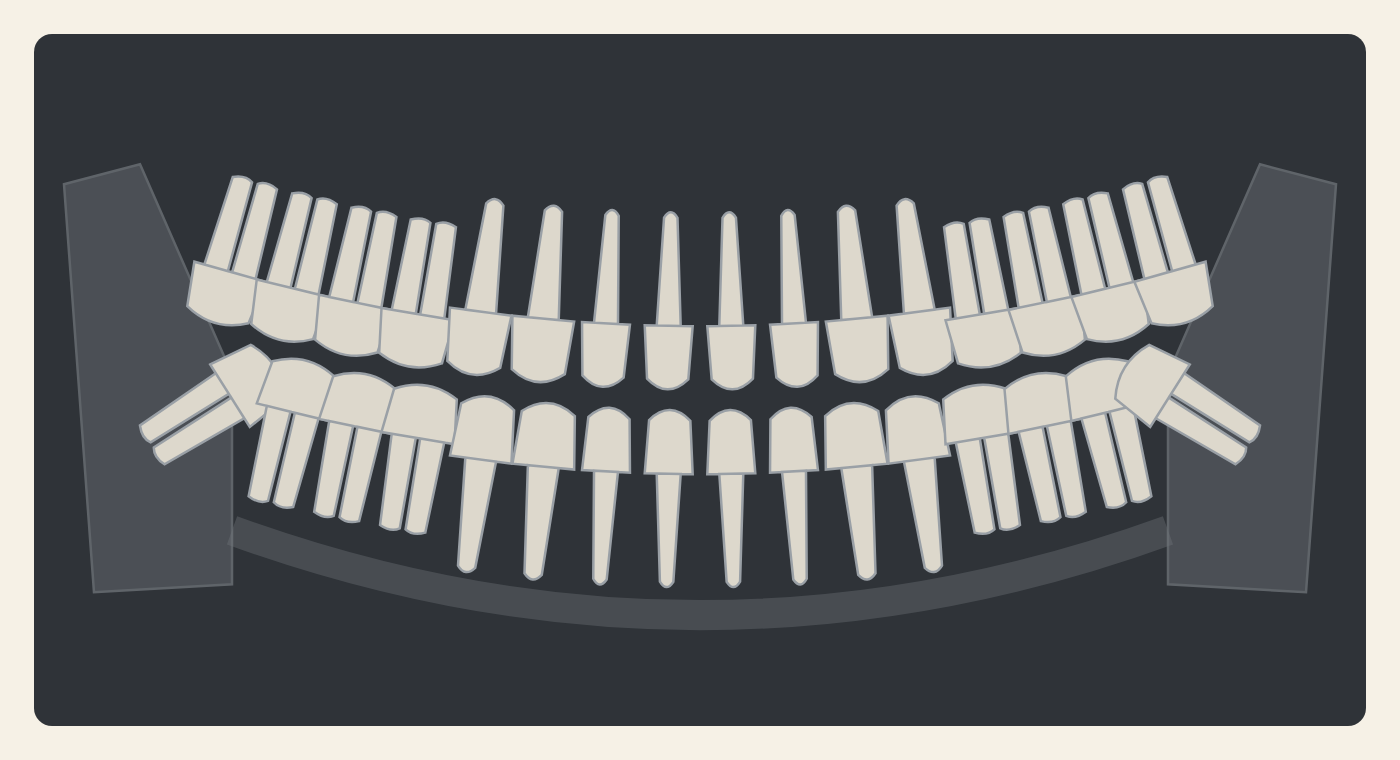
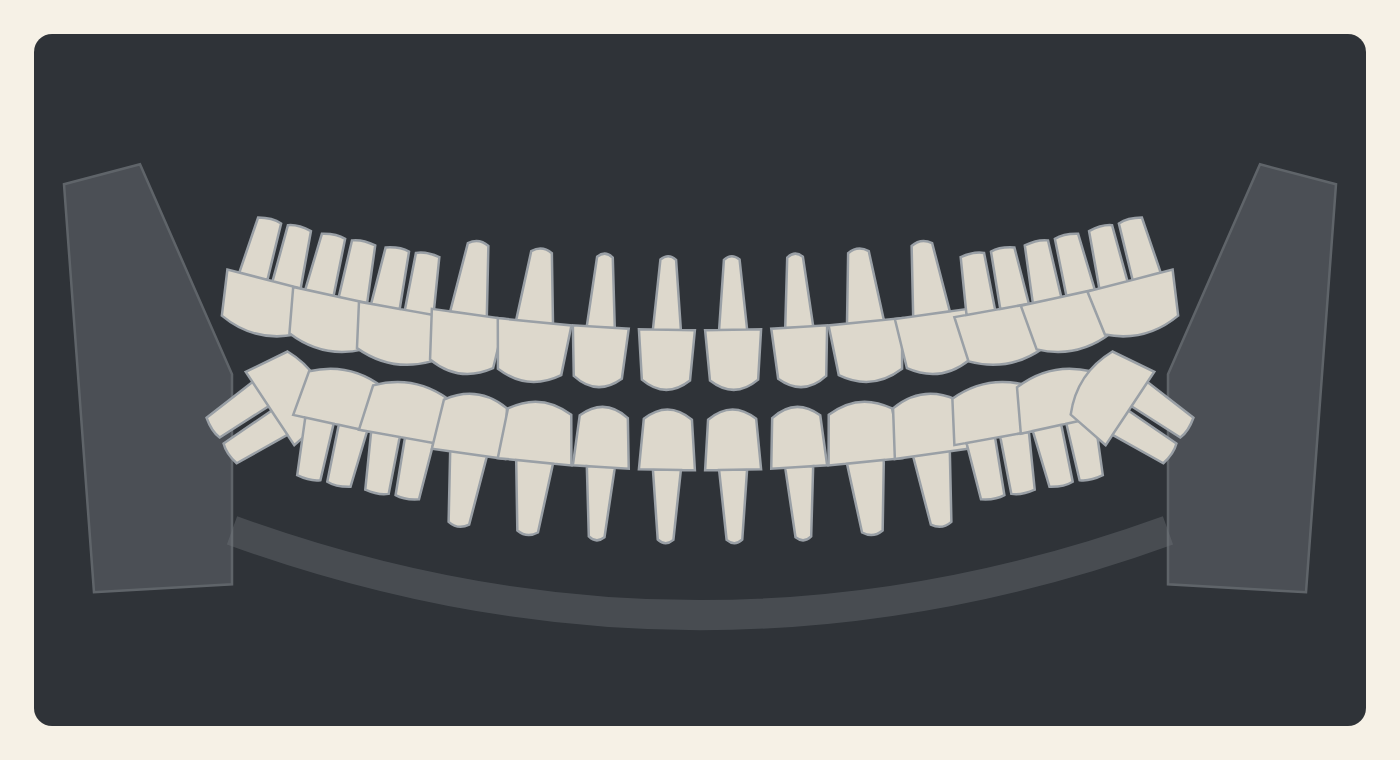
〈智齒要不要拔〉HERO 第四版：房間補家具（要畫淡）＋ X 光片改成看片箱
使用者看過第三版：「還蠻不錯的」—— 風格、構圖、箭頭、人物比例都過了，只改三件：

① 諮詢空間太空蕩 → 補一整段 THE ROOM（窗簾、洗手台與鏡子、櫃子抽屜、檯面上的
   杯子紙盤面紙盒罐子盆栽、牆上乾洗手與手套盒、層板資料夾、沒有數字的鐘、
   掛鉤與帆布袋、有蓋垃圾桶、滾輪圓凳、空托盤的器械推車）
   ⚠⚠「畫淡」明講**只適用於家具，不適用於人** —— A 類紅線的鄰居：次要角色
   靠小靠位置靠被遮住，絕不可以靠把線畫淡（2026-08-22 那張畫出來是鬼魂）。
   提示詞因此寫成兩句，並補 never fade a person

②③ X 光片讀起來像「牆上掛了一幅 X 光片的畫」—— 問題不在片子在外框。
   新增 THE X-RAY LIGHT BOX：把「它是設備不是畫」拆成三件一定要畫出來的事
   （燈板發光且牆上有光暈／上緣夾子吊著片子、下緣露出一條白光帶／電源線與開關），
   並擋掉相框、掛畫、海報、電視、螢幕、吊線掛鉤、以及「不亮」

pano-ref 同日改版：牙根改短改粗、顆數 16 → 14。「上一版比較好」的差別是
片子被畫大之後細長的牙根變成一排火柴棒；顆數減少讓每顆分到的像素變多。

Claude-Session: https://claude.ai/code/session_015zLafXD4E1dDxUhPcY5jKn

Changed region(s): [[0.0921, 0.2118, 0.9214, 0.7868]]

diff --git a/drafts/wisdom-eruption/hero-prompt.md b/drafts/wisdom-eruption/hero-prompt.md
@@ -114,6 +114,52 @@ ILLUSTRATION.md 第十之一：**形狀不要用文字描述，用參考圖**。
 
 ---
 
+## ⚠ 第四版（2026-09-22）：使用者看過第三版的成品，三件
+
+> 「還蠻不錯的　不過這個諮詢空間有點太空空蕩蕩了　把諮詢室該有的東西加進來
+> 　但可以畫淡一點不要搶戲／插圖中間的 X 光片上一版比較好　用上一版的／
+> 　那個 X 光片還是要做成 X 光片看片箱的樣子　不然會讓人覺得那是一幅畫
+> 　但品味好怪　因為這幅畫竟然是 X 光片」
+
+風格、構圖、箭頭、人物比例這一版都過了，只改三件：
+
+### ① 房間要有東西，但**要畫淡**
+
+補了一整段 `THE ROOM`：窗簾、洗手台與鏡子、櫃子與抽屜、檯面上的杯子／紙盤／
+面紙盒／罐子／盆栽、牆上的乾洗手與手套盒、層板上的資料夾與瓶子、沒有數字的鐘、
+掛鉤與帆布袋、有蓋的腳踏垃圾桶、滾輪圓凳、一台**空托盤**的器械推車。
+
+⚠⚠ **「畫淡」這一條要指名只適用於家具，不適用於人。**
+ILLUSTRATION.md A 類紅線的鄰居寫著：次要角色靠小、靠位置、靠被遮住，
+**絕不可以靠把線畫淡**（2026-08-22 那張踩過，畫出來是鬼魂）。
+所以提示詞寫成兩句：家具用**更細更淡**的線與顏色；
+**每一個人（含箭頭上那五個小孩）維持完整的線與顏色，never fade a person**。
+
+⚠ 器械推車上的托盤**明講是空的** —— 第四節 B 類第 7 條（器械的密集特寫）。
+
+### ② ③ X 光片：它讀起來是「牆上掛了一幅 X 光片的畫」
+
+使用者這一句是這一輪最準的一句：**問題不在片子，在它的外框。**
+第三版那個深灰厚框 ＋ 沒有光 ＝ 相框；掛在牆上就變成一幅畫，
+而「一幅畫竟然是 X 光片」當然品味很怪。
+
+新增一整段 `THE X-RAY LIGHT BOX`，把「它是設備不是畫」拆成**三件一定要畫出來的事**：
+
+1. **燈板會發光** —— 光在片子後面，燈板比片子亮，牆上有一圈淡淡的光暈。
+2. **上緣有夾子**，片子是**吊在上面**的，片子下緣**短於**燈板，
+   所以底下露出一條純白的光帶。
+3. **有電源線**從下角沿著牆垂下來，側面有小開關。
+
+並補上擋線：不是相框、不是掛畫、不是海報、不是電視、不是螢幕，
+沒有厚線腳、沒有裱框、沒有吊線與掛鉤，**而且不可以不亮**。
+
+片子本身（`pano-ref.png`）同日改過一版：**牙根改短改粗、顆數 16 → 14**。
+「上一版比較好」的差別在**片子被畫大之後，細長的牙根就變成一排火柴棒** ——
+真的全景片上牙冠佔的比例比想像中大、根短而鈍；顆數減少則是讓每顆分到的像素變多
+（同第七節第 10 條「圈存在不代表像素夠」）。
+
+---
+
 ## 刻意沒有放的東西
 
 | | 為什麼 |
